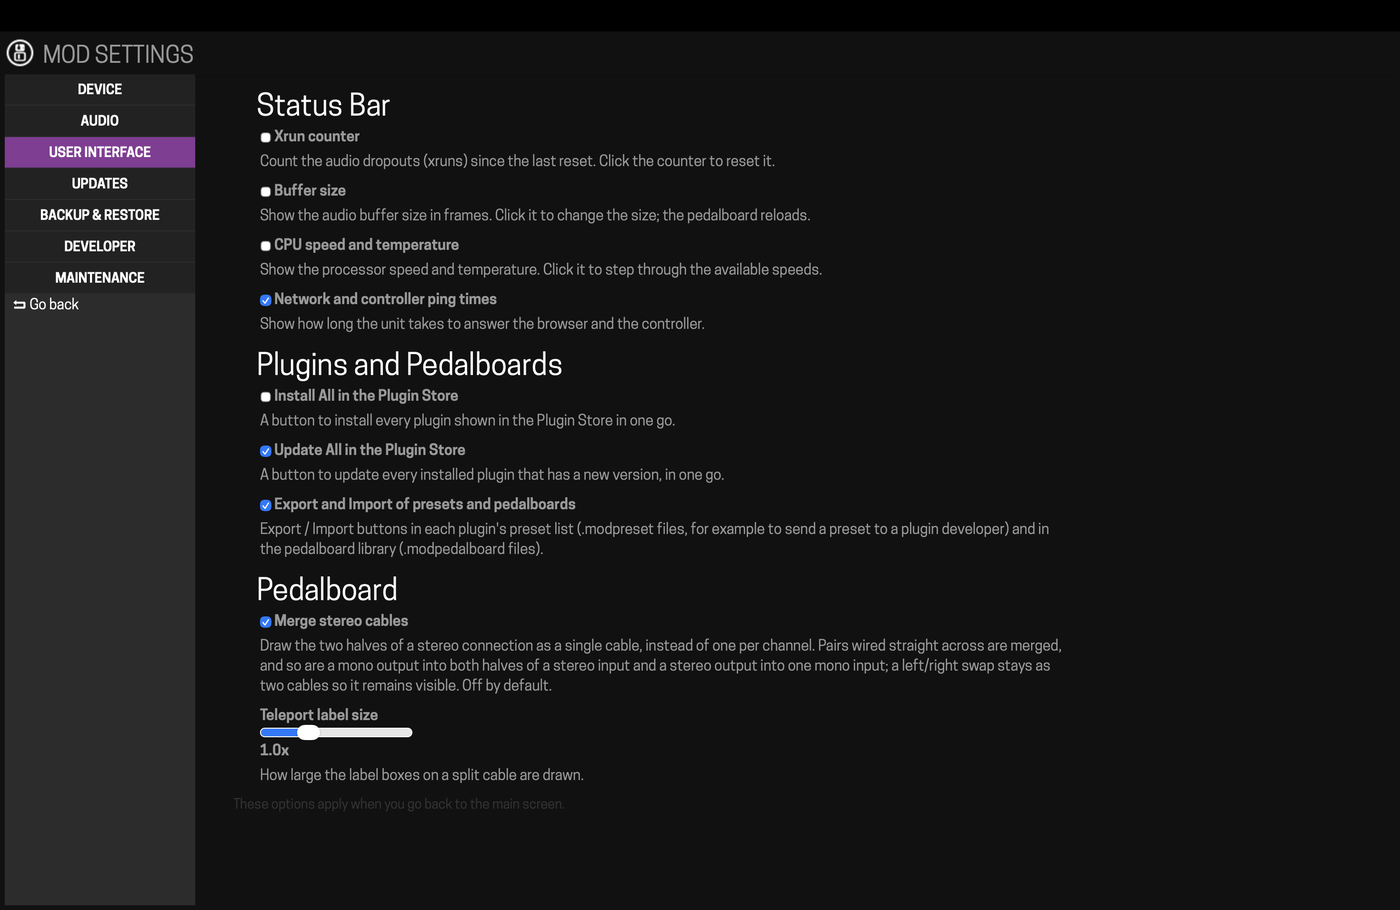
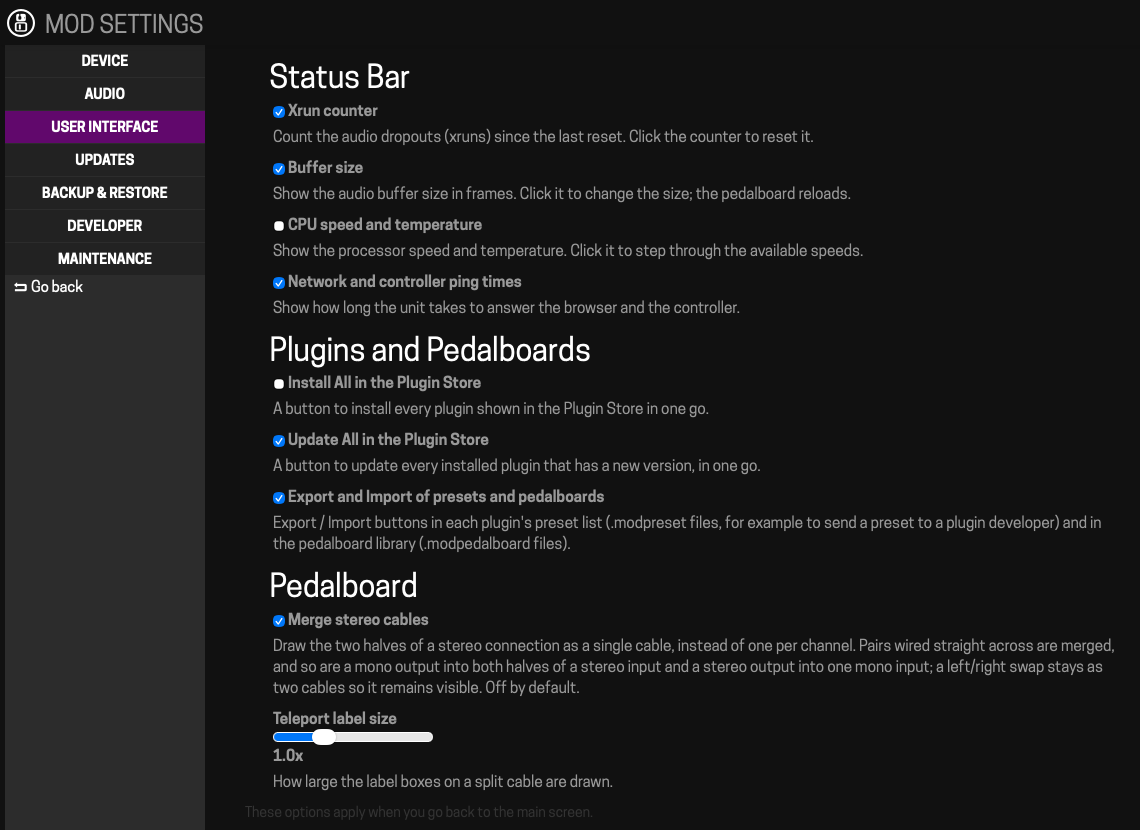
Manual 1.15: screenshots of the Settings tabs, backup, performance view, sharing and pedalboard editing
Adds the Web UI screenshots taken on 1.15 RC1 (v1.15.0.3371) in place of the
placeholders, and a short Control Chain firmware updates section.

Changed region(s): [[0.0, 0.0, 0.9825, 1.0]]

diff --git a/docs/settings/web-ui-settings.md b/docs/settings/web-ui-settings.md
@@ -13,6 +13,8 @@ The page has seven tabs, listed on the left: Device, Audio, User Interface, Upda
 
 ## Device
 
+![The Device tab of the MOD Settings page](../assets/settings/web-settings-device.png)
+
 Information about your Dwarf: unit, build date, OS version, kernel, and the audio engine's current **buffer size**, sample rate and DSP load. Also here:
 
 - **Use custom Bluetooth device name**: the name your computer or phone sees when pairing (see [Bluetooth](../connecting-gear/bluetooth.md)).
@@ -25,8 +27,7 @@ Information about your Dwarf: unit, build date, OS version, kernel, and the audi
 
 ### Buffer size
 
-<!-- IMAGE NEEDED: Settings → Audio of MOD OS 1.15 with the Buffer Size choices 64 / 128 (default) / 256 frames
-     Suggested: docs/assets/settings/web-settings-buffer-size.png -->
+![The Audio tab with the Buffer Size choices](../assets/settings/web-settings-buffer-size.png)
 
 The buffer size is how much audio the Dwarf processes at a time, in frames (samples). Pick one of three:
 
@@ -68,6 +69,8 @@ These switches are off until you turn them on. If you had Developer Mode on in 1
 
 ## Updates
 
+![The Updates tab of the MOD Settings page](../assets/settings/web-settings-updates.png)
+
 - **Installed version** of MOD OS, and the **Update channel** (Stable or Testing). Testing is not honoured by the update server yet: test releases are installed by hand, see [Trying a test release](../maintaining/os-updates.md#trying-a-test-release).
 - **Start update mode**: puts the Dwarf in update mode for a [manual update](../maintaining/os-updates.md#manual-update-maintenance-recovery-path), the same as Settings → System Upgrade on the device.
 - **Control Chain Firmware**: updates for connected [Control Chain devices](../connecting-gear/control-chain.md).
@@ -80,11 +83,15 @@ Backs up your data to a USB stick and restores it. See [Backup & Restore](../ped
 
 ## Developer
 
+![The Developer tab of the MOD Settings page](../assets/settings/web-settings-developer.png)
+
 - **Show beta plugins in the Store**: lists beta plugins in the Plugin Store, with an Official / Beta / Both filter. Beta plugins can be unstable and cause crashes. A pedalboard you share that uses beta plugins only works for people who also accept beta plugins.
 - **JACK Net Manager (EXPERIMENTAL)**: an experimental service. Like every extra service, it uses some CPU: leave it off unless you need it.
 - **Automatically restart controller screen**: tries to detect when the device screen locks up and restarts it. It can get this wrong and restart the screen by mistake. Takes effect after a reboot.
 
 ## Maintenance
+
+![The Maintenance tab of the MOD Settings page](../assets/settings/web-settings-maintenance.png)
 
 - **Report a problem...**: see [Reporting a Problem](../maintaining/report-problem.md).
 - **Reflash controller**: reinstalls the firmware of the device's screen and controls. You type REFLASH to confirm; do not cut the power while it runs. See [Factory Reset & Reinstall](../maintaining/factory-reset.md).

diff --git a/docs/pedalboards-snapshots/editing.md b/docs/pedalboards-snapshots/editing.md
@@ -37,6 +37,8 @@ When a pedalboard loads, the view is scaled so the whole board fits the window, 
 
 ## Following a cable
 
+![The pointer on an input of the reverb: its cable lights up, the rest of the cables are dimmed](../assets/pedalboards-snapshots/port-hover.jpg)
+
 Hover the mouse over a jack that has cables: all its cables light up, with the jacks at both ends. On a crowded board this is the quickest way to see where a signal comes from and where it goes.
 
 **Right-click** a jack with cables for a small menu:
@@ -50,6 +52,8 @@ With several cables on the jack the items act on all of them: **Split cables**, 
 
 A stereo connection is really two cables, left and right, running side by side. With **Merge stereo cables** on (Settings → User Interface, off by default; see [Web UI Settings](../settings/web-ui-settings.md#user-interface)), the pair is drawn as a single cable that only splits into its two legs at the ends.
 
+![Merge stereo cables on: each stereo pair is drawn as one cable](../assets/pedalboards-snapshots/stereo-cables-on.jpg)
+
 These are merged:
 
 - a stereo pair wired straight across, left to left and right to right;
@@ -61,6 +65,8 @@ A pair wired crossed (left to right, right to left) stays as two cables, so a de
 The Web UI recognises a pair by the port names: ending in L/R or Left/Right, or numbered ports 1-2, 3-4.
 
 ## Cable teleporting
+
+![Split cables: a label box at each output, and four labels arriving at the inputs of the Stereo Gain](../assets/pedalboards-snapshots/teleport-labels.jpg)
 
 A long cable across the whole board makes everything else harder to read. You can **split** it: the connection stays exactly as it was, but instead of a wire across the board you get a short stub with a label box at each end.
 

diff --git a/docs/connecting-gear/control-chain.md b/docs/connecting-gear/control-chain.md
@@ -15,9 +15,14 @@ Once a Control Chain device is connected, it appears as an option in the assignm
 
 Control Chain is an open protocol, so it's also possible to build your own peripherals for it — see the [Arduino Shield](https://github.com/mod-audio/cc-hw-arduino-shield) as a starting point.
 
-<!-- IMAGE NEEDED / CONTENT GAP: The wiki has a "Device Updates" panel (Web UI Settings → Advanced → Device Updates, for updating connected Control Chain peripherals' own firmware) that this page doesn't mention at all yet — worth a short section once someone confirms the current flow on a real device.
-     Wiki source: https://wiki.mod.audio/images/2/22/Device-updates.png (from "MOD Web GUI User Guide")
-     Suggested: docs/assets/connecting-gear/control-chain-device-updates.png -->
+## Firmware updates
+
+Control Chain devices have their own firmware. The Web UI lists the devices it knows under **Settings → Updates → Control Chain Firmware**, each with the latest firmware version and an **Update firmware** button. Some devices, like the Arduino Shield, are updated by hand instead: the list says so.
+
+!!! warning "Pending implementation — content not final"
+    MOD OS 1.15, a test release for now (1.15 RC1), moves this list into the Updates tab. On 1.14 it is in its own Settings tab, **Device Updates**. Remove this box once 1.15 is the stable release.
+
+![The Control Chain Firmware list in Settings → Updates](../assets/settings/web-settings-updates.png)
 
 ---
 

diff --git a/docs/plugins-files/sharing.md b/docs/plugins-files/sharing.md
@@ -14,8 +14,7 @@ The buttons are off by default. Turn on **Export and Import of presets and pedal
 
 ## Plugin presets
 
-<!-- IMAGE NEEDED: A plugin's settings window with the EXP and IMP buttons in its preset bar
-     Suggested: docs/assets/plugins-files/preset-exp-imp.png -->
+![A plugin's settings window with EXP and IMP in the preset bar](../assets/plugins-files/preset-exp-imp.jpg)
 
 In a plugin's settings window, the preset bar gets two buttons:
 
@@ -28,8 +27,7 @@ When importing, the Dwarf warns you if the preset was made with another version 
 
 ## Pedalboards
 
-<!-- IMAGE NEEDED: The Pedalboards Library with the EXP link on a pedalboard and the "Import pedalboard..." button in the header
-     Suggested: docs/assets/plugins-files/pedalboard-exp-import.png -->
+![The Pedalboards Library with an EXP link on each pedalboard and Import pedalboard... at the top](../assets/plugins-files/pedalboard-exp-import.jpg)
 
 In the Pedalboards Library:
 

diff --git a/docs/pedalboards-snapshots/backup-restore.md b/docs/pedalboards-snapshots/backup-restore.md
@@ -21,8 +21,7 @@ The Dwarf checks there is enough free space before it starts, and tells you if t
 
 ![The Settings button in the Web UI status bar](../assets/settings/SettingsButton.png)
 
-<!-- IMAGE NEEDED: Settings → Backup & Restore of MOD OS 1.15, with the three "Also backup/restore ..." checkboxes and the two buttons
-     Suggested: docs/assets/pedalboards-snapshots/backup-restore-panel.png -->
+![The Backup & Restore tab of the MOD Settings page](../assets/pedalboards-snapshots/backup-restore-panel.png)
 
 1. Plug the USB stick into the USB Host port.
 2. In the Web UI, open **Settings → Backup & Restore**.

diff --git a/docs/playing-live/performance-view.md b/docs/playing-live/performance-view.md
@@ -24,8 +24,7 @@ With a mouse, the wheel over the tile row moves to the next or previous tile.
 
 ## Choosing the plugins and their order
 
-<!-- IMAGE NEEDED: The Performance view in edit mode (after the gear icon), with the eye icons on the tiles and the Save button
-     Suggested: docs/assets/playing-live/performance-view-edit.png -->
+![The Performance view in edit mode: an eye icon on each tile (two plugins hidden), a pencil next to each label, and Save at the top right](../assets/playing-live/performance-view-edit.jpg)
 
 Click the gear icon at the top right to enter edit mode. There you can:
 
